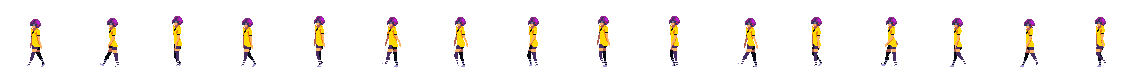
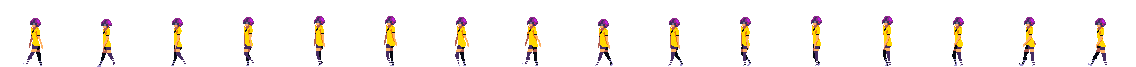
Inmunidad + Animaciones correr y disparar + fix balas

diff --git a/src/characters/Player.js b/src/characters/Player.js
@@ -14,6 +14,9 @@ export default class Player extends Phaser.Physics.Arcade.Sprite {
 		this.cursors = this.scene.input.keyboard.createCursorKeys();
 		this.spaceKey = this.scene.input.keyboard.addKey('SPACE');
 		this.superShotKey = this.scene.input.keyboard.addKey('X');
+		this.shooting = false;
+		this.inmunity = false;
+		this.direction = 1;
 
 		// Fix collider
 		this.body.setSize(25, 55);
@@ -75,7 +78,34 @@ export default class Player extends Phaser.Physics.Arcade.Sprite {
 
 		this.scene.anims.create(
 			{
+				key: 'run-shoot-right',
+				frames: this.scene.anims.generateFrameNumbers('run-shoot-right', { start: 0, end: 7 }),
+				frameRate: 10,
+				repeat : 1
+			}
+		);
+
+		this.scene.anims.create(
+			{
+				key: 'run-shoot-left',
+				frames: this.scene.anims.generateFrameNumbers('run-shoot-left', { start: 0, end: 7 }),
+				frameRate: 10,
+				repeat : 1
+			}
+		);
+
+		this.scene.anims.create(
+			{
 				key: 'stay',
+				frames: this.scene.anims.generateFrameNumbers('player', { start: 0, end: 3 }),
+				frameRate: 10,
+				repeat : -1
+			}
+		);
+
+		this.scene.anims.create(
+			{
+				key: 'idle-left',
 				frames: this.scene.anims.generateFrameNumbers('player', { start: 0, end: 3 }),
 				frameRate: 10,
 				repeat : -1
@@ -104,7 +134,7 @@ export default class Player extends Phaser.Physics.Arcade.Sprite {
 	}
 
 	takeDamage(damage) {
-		if (!this.takingDamage) {
+		if (!this.takingDamage && !this.inmunity) {
 			this.health -= damage;
 			this.checkDeath();
 			console.log(this.health);
@@ -115,7 +145,7 @@ export default class Player extends Phaser.Physics.Arcade.Sprite {
 	}
 
 	bounce(velocity) {
-		this.play('player-jump').on('animationcomplete', () => {this.play('stay')});
+		this.play('player-jump');
 		this.setVelocityY(velocity)
 	}
 
@@ -154,14 +184,27 @@ export default class Player extends Phaser.Physics.Arcade.Sprite {
 	}
 
 	shoot(direction){
-		if(direction > 0){
-			this.anims.play('shoot-right',true).on('animationcomplete', () => {this.play('stay')});
-		}else{
-			this.anims.play('shoot-left',true).on('animationcomplete', () => {this.play('stay')});
+		if (!this.shooting){
+			if (this.cursors.right.isDown && this.spaceKey.isDown){
+				this.anims.play('run-shoot-right',true).on('animationcomplete', () => {this.play('stay')});
+			}
+			else if (this.cursors.left.isDown && this.spaceKey.isDown){
+				this.anims.play('run-shoot-left',true).on('animationcomplete', () => {this.play('stay')});
+			}
+			else{
+				if(direction > 0){
+					this.anims.play('shoot-right',true).on('animationcomplete', () => {this.play('stay')});
+				}else{
+					this.anims.play('shoot-left',true).on('animationcomplete', () => {this.play('stay')});
+				}
+			}
+			
+			this.bulletGroup.generateBullet(this.body.position.x + 50 * direction , this.body.position.y + 15, direction);
+
+			this.shooting = true;
+			setTimeout(() => { this.shooting = false }, 300);
 		}
-		setTimeout(() => {
-			this.bulletGroup.generateBullet(this.body.position.x + 50 , this.body.position.y + 15, direction);
-		}, 300);
+		
 	}
 
 	// Executes 'Super Shot'
@@ -194,7 +237,6 @@ export default class Player extends Phaser.Physics.Arcade.Sprite {
 			if (!(this.anims.isPlaying && this.anims.currentAnim.key === 'player-jump')) {
 				this.setVelocityY(-400);
 				this.anims.play('player-jump',true).on('animationcomplete', () => {
-					this.anims.play('stay',true);
 					this.setVelocityY(0);
 				});
 			}
@@ -202,23 +244,29 @@ export default class Player extends Phaser.Physics.Arcade.Sprite {
 		else if (this.cursors.down.isDown) {
 			this.setVelocityY(200);
 		}
-		if (this.cursors.left.isDown && this.cursors.right.isUp) {
+		if (this.cursors.left.isDown && this.cursors.right.isUp && !this.shooting) {
 			this.setVelocityX(-200);
 			if (!(this.anims.isPlaying && this.anims.currentAnim.key === 'player-jump')) {
 				this.anims.play('player-walk-left',true).on('animationcomplete', () => {this.anims.play('stay',true)});
 			}
 		}
-		else if(this.cursors.left.isUp && !this.cursors.right.isDown){
+		else if (this.cursors.left.isUp && !this.cursors.right.isDown && !this.shooting){
 			if (this.anims.isPlaying && this.anims.currentAnim.key === 'player-walk-left') {
 				this.setVelocityX(0);
 				this.anims.play('stay',true);
 			}
 		}
-		if (this.cursors.right.isDown) {
+		else if (this.cursors.left.isDown && this.shooting){
+			this.setVelocityX(-200);
+		}
+		if (this.cursors.right.isDown && !this.shooting) {
 			this.setVelocityX(200);
 			if (!(this.anims.isPlaying && this.anims.currentAnim.key === 'player-jump')) {
 				this.anims.play('player-walk-right',true).on('animationcomplete', () => {this.anims.play('stay',true)});
 			}
+		}
+		else if (this.cursors.right.isDown && this.shooting){
+			this.setVelocityX(200);
 		}
 		else if(this.cursors.right.isUp && !this.cursors.left.isDown){
 			if (this.anims.isPlaying && this.anims.currentAnim.key === 'player-walk-right') {
@@ -241,11 +289,18 @@ export default class Player extends Phaser.Physics.Arcade.Sprite {
 		}
 		else if (this.cursors.left.isUp && this.cursors.right.isUp && this.cursors.down.isUp && this.cursors.up.isUp){
 			this.setVelocityX(0);
+
+			if (this.direction == 1){
+				this.anims.play('stay',true);
+			}
+			else{
+				this.anims.play('idle-left',true);
+			}
 		}
 
 
 		if (this.health <= 0) {
-			console.log('GAME OVER');
+			this.scene.restart();
 			this.disableBody(true, true);
 		}
 

diff --git a/src/scenes/FirstLevelScene.js b/src/scenes/FirstLevelScene.js
@@ -23,6 +23,9 @@ export default class FirstLevelScene extends Phaser.Scene
 		this.load.spritesheet('player-shoot-left', 'res/player/shoot/shoot_left.png', { frameWidth: 71, frameHeight: 67 });
 		this.load.spritesheet('player-hurt', 'res/player/hurt/hurt.png', { frameWidth: 71, frameHeight: 67 });
 		this.load.spritesheet('player-jump', 'res/player/jump/jump_sprite.png', { frameWidth: 71, frameHeight: 67 });
+        this.load.spritesheet('run-shoot-right', 'res/player/run-shoot/run-shoot-right.png', { frameWidth: 71, frameHeight: 67 });
+        this.load.spritesheet('run-shoot-left', 'res/player/run-shoot/run-shoot-left.png', { frameWidth: 71, frameHeight: 67 });
+        this.load.spritesheet('idle-left', 'res/player/idle/idle-left.png', { frameWidth: 71, frameHeight: 67 });
 
         this.load.spritesheet('mummy', '../../res/enemies/mummy37x45.png', { frameWidth: 37, frameHeight: 45 });
 		this.load.spritesheet('player', '../../res/player/idle/idle_sprite.png', { frameWidth: 71, frameHeight: 67 });
